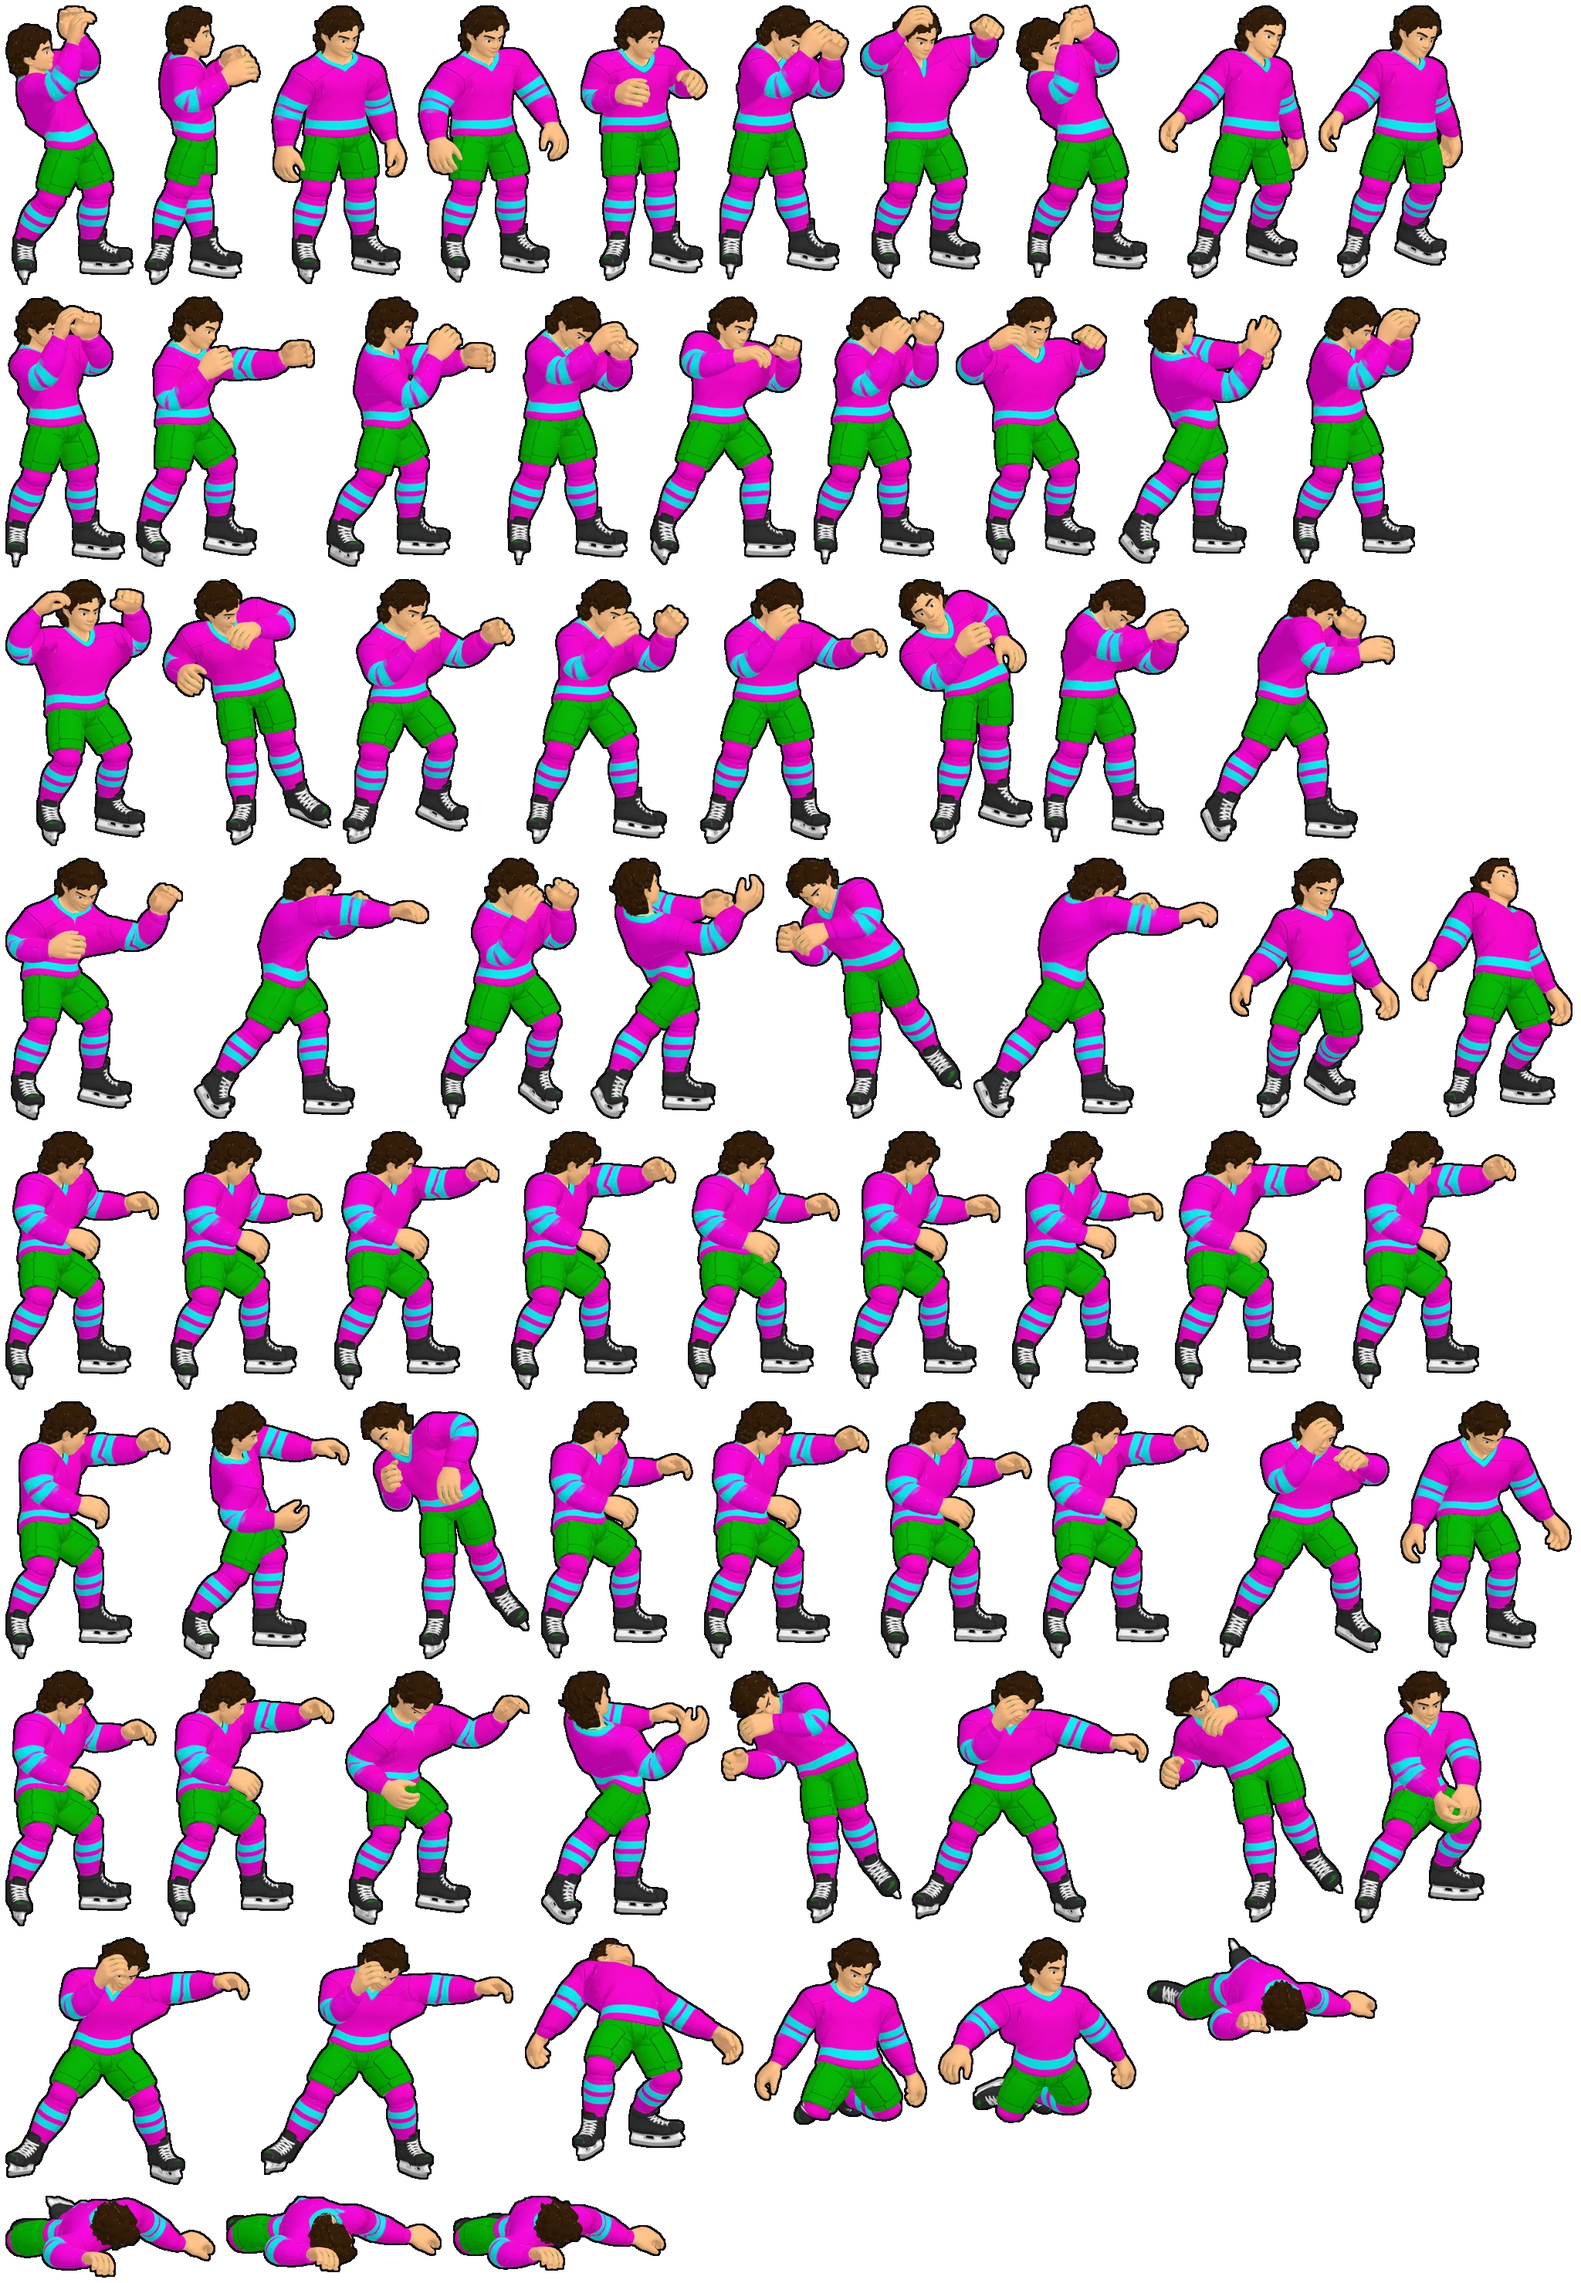
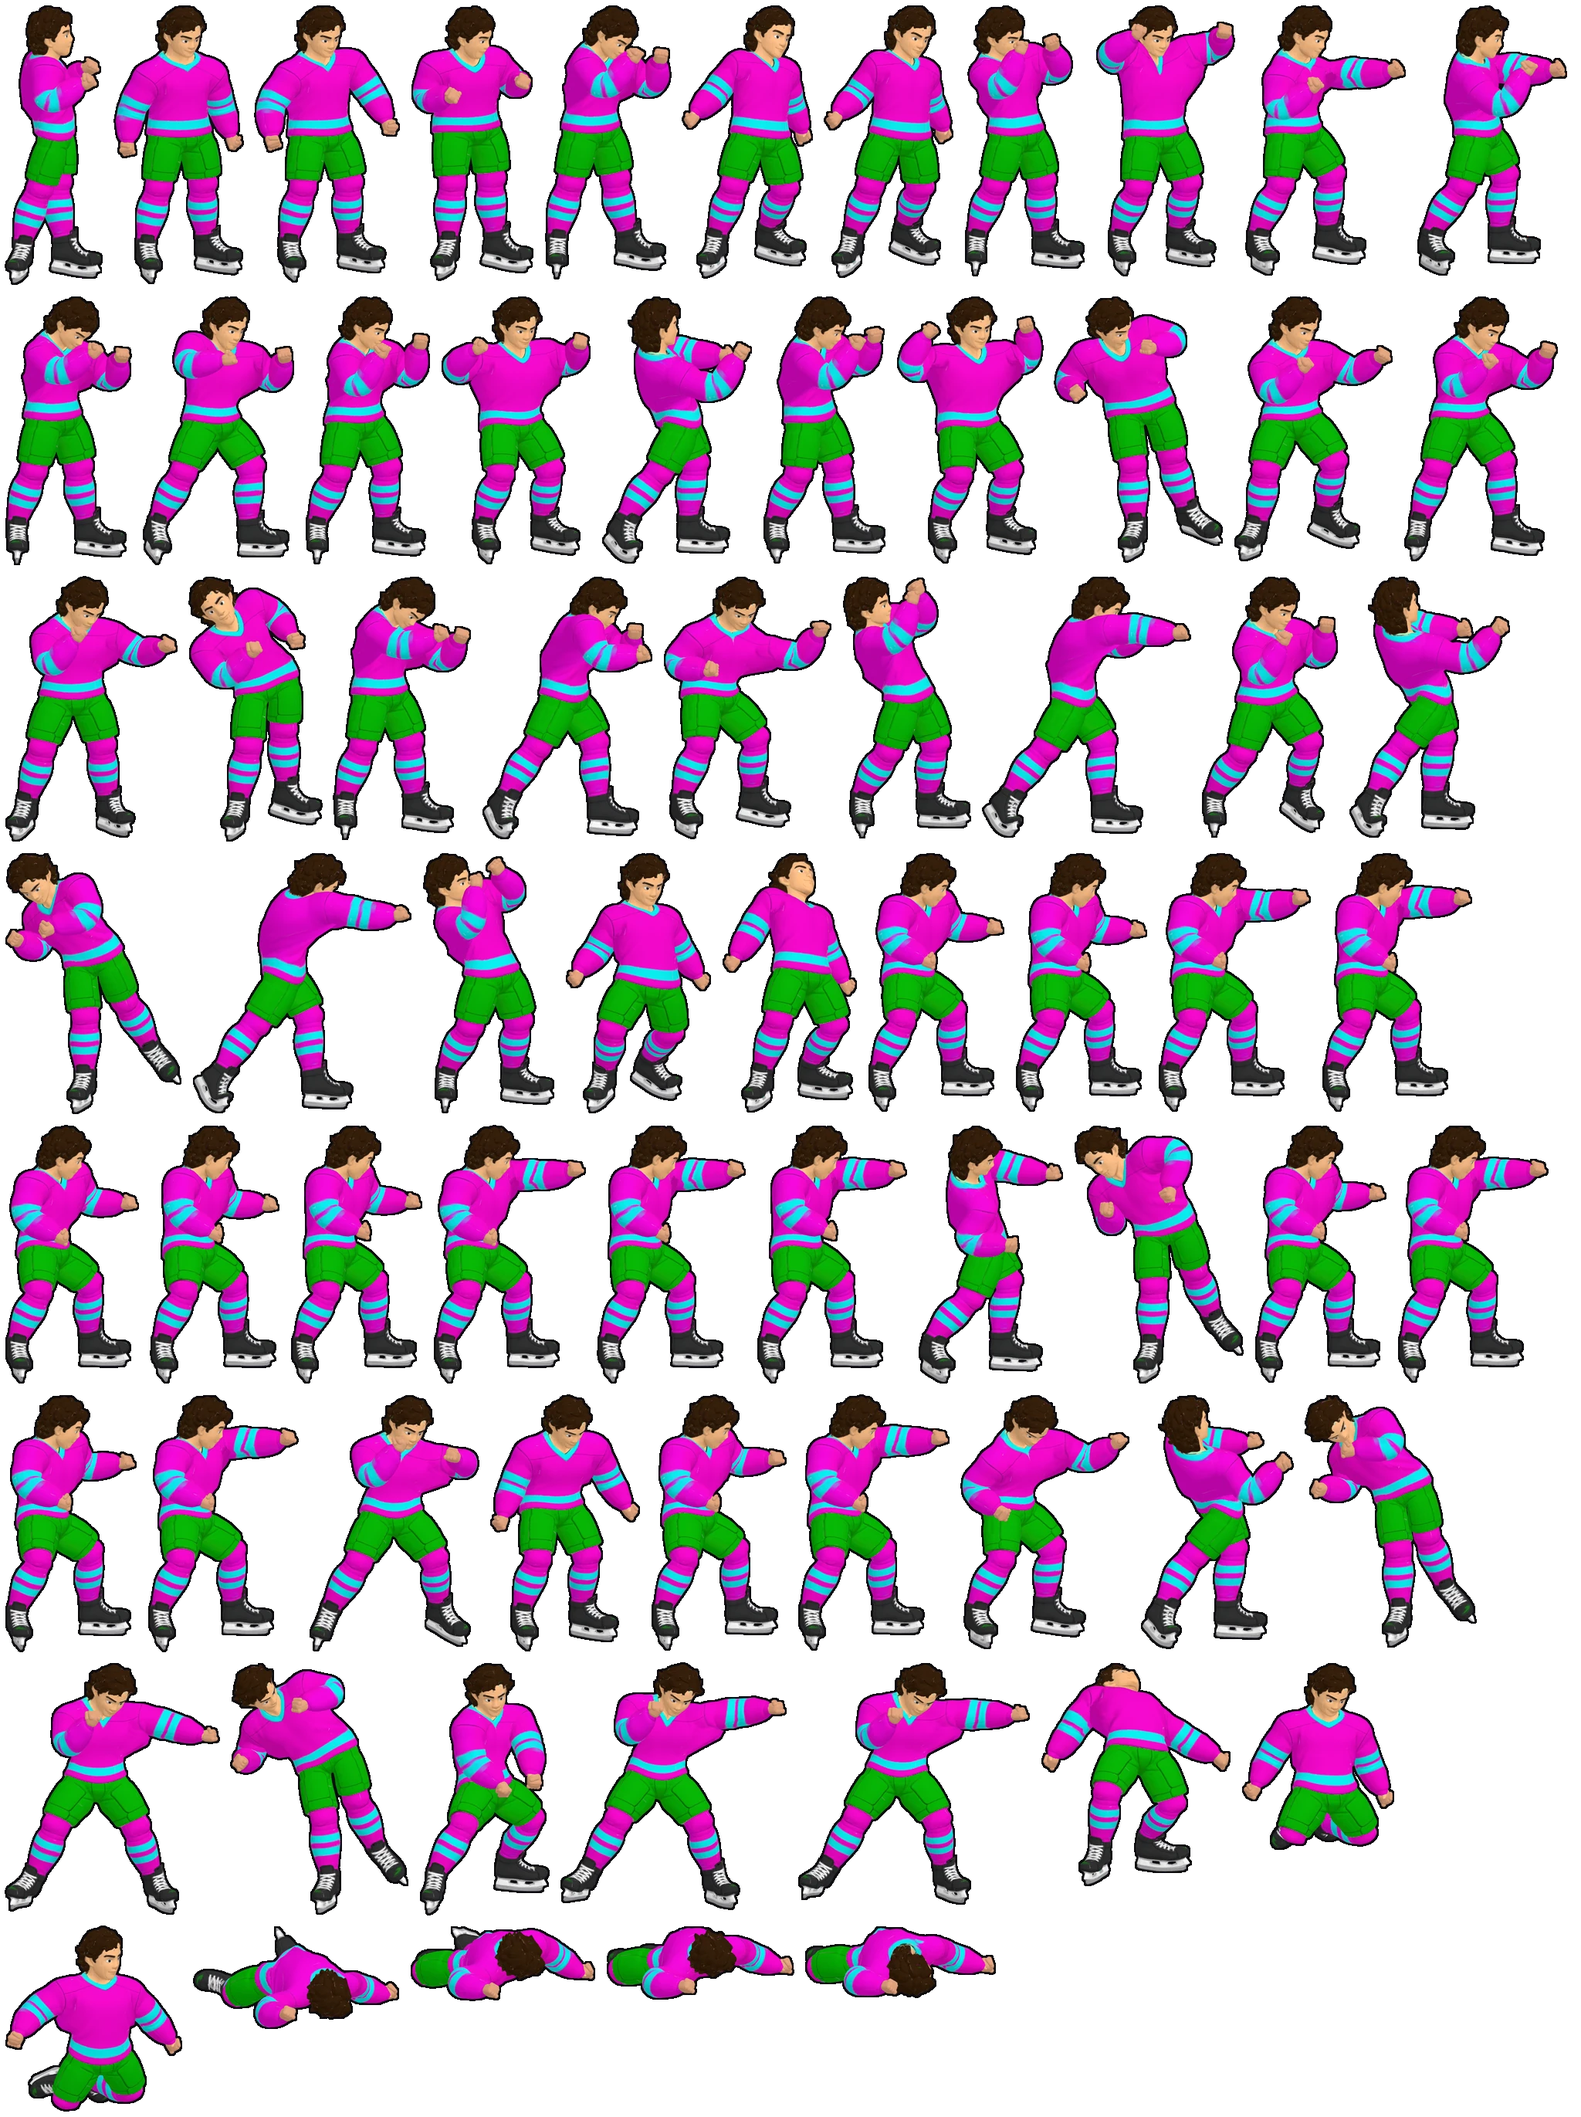
Fights: closed fists
The fight model has no finger bones, so each open hand is tucked into the cuff and a
modelled fist (knuckles, curled fingers, thumb) rides the wrist. Re-rendered the fight atlas.

Claude-Session: https://claude.ai/code/session_01C1NNpy9rFbatHA9zeLktuV

diff --git a/tools/fight/fight.html b/tools/fight/fight.html
@@ -4,6 +4,7 @@
 <script type="module">
 import * as THREE from 'three';
 import {GLTFLoader} from 'three/addons/loaders/GLTFLoader.js';
+import {RoundedBoxGeometry} from 'three/addons/geometries/RoundedBoxGeometry.js';
 const V=(x,y,z)=>new THREE.Vector3(x,y,z), Q=THREE.Quaternion, N=900;
 const cv=document.getElementById('c');
 const r=new THREE.WebGLRenderer({canvas:cv,antialias:true,alpha:true,preserveDrawingBuffer:true});
@@ -34,7 +35,7 @@ const pj=v=>{const p=v.clone().project(C); return [(p.x*.5+.5)*N,(1-(p.y*.5+.5))
 function pose(name,t,o={}){
   mx.stopAllAction(); const clip=g.animations.find(c=>c.name===name); const a=mx.clipAction(clip); a.reset().play(); mx.setTime(Math.min(t,clip.duration-1e-4)); root.rotation.y=({Idle_10:22,Dead:-66,Show_Both_Arm_Muscles:-50,Face_Punch_Reaction:-14}[name]||0)*Math.PI/180;
   root.updateMatrixWorld(true);
-  B.Head.scale.setScalar(1.12); B.LeftHand.scale.setScalar(1.25); B.RightHand.scale.setScalar(1.25); root.updateMatrixWorld(true);
+  B.Head.scale.setScalar(1.12); B.LeftHand.scale.setScalar(0.35); B.RightHand.scale.setScalar(0.35); root.updateMatrixWorld(true);
   if(o.grab){ // fake the jersey grab: lead (left) hand pinned on the other guy's shoulder/collar
     const D=window.DIST||1.0; const k=o.grab;
     const cur=wp(B.LeftHand), T=V(0.12,1.36,D-0.24);
@@ -43,8 +44,25 @@ function pose(name,t,o={}){
   }
 }
 window.yaws=(t0)=>g.animations.map(c=>{ pose(c.name,t0||0); const f=(a,b)=>{const L=wp(B[a]).sub(wp(B[b])); const F=L.clone().cross(V(0,1,0)); return +(Math.atan2(F.x,F.z)*57.3).toFixed(1);}; return [c.name,f('LeftUpLeg','RightUpLeg'),f('LeftArm','RightArm')]; });
+const SKIN=new THREE.MeshStandardMaterial({color:window.SKINC||0xe0a27c,roughness:.75});
+function mkFist(side){ const g=new THREE.Group();
+  const P=window.FP||{w:.095,t:.08,l:.10};
+  const body=new THREE.Mesh(new RoundedBoxGeometry(P.w,P.l,P.t,4,.032),SKIN); g.add(body);
+  // knuckle row along the far end
+  for(let i=0;i<4;i++){ const k=new THREE.Mesh(new THREE.SphereGeometry(.0175,12,10),SKIN); k.position.set((i-1.5)*.022,P.l/2-.012,-P.t/2+.022); g.add(k); }
+  // curled fingers: a rounded bar across the palm side
+  const fg=new THREE.Mesh(new THREE.CapsuleGeometry(.02,P.w-.04,4,10),SKIN); fg.rotation.z=Math.PI/2; fg.position.set(0,P.l/2-.03,P.t/2-.012); g.add(fg);
+  // thumb wrapped across the front of the fingers
+  const th=new THREE.Mesh(new THREE.CapsuleGeometry(.014,.045,4,10),SKIN); th.rotation.z=Math.PI/2+side*.35; th.position.set(side*.012,P.l/2-.05,P.t/2+.006); g.add(th);
+  sc.add(g); return g; }
+const FISTS={L:mkFist(1),R:mkFist(-1)};
+function placeFists(){ root.updateMatrixWorld(true);
+  for(const [k,h,e] of [['L','LeftHand','LeftHandMiddle4'],['R','RightHand','RightHandMiddle4']]){
+    const w=wp(B[h]), q=new Q(); B[h].getWorldQuaternion(q); const g=FISTS[k];
+    const fwd=V(0,1,0).applyQuaternion(q).normalize();
+    g.quaternion.copy(q); g.position.copy(w).add(fwd.multiplyScalar(window.FOFF??.055)); } }
 window.info=()=>g.animations.map(c=>[c.name,c.duration]);
 window.measure=(name,n)=>{ const clip=g.animations.find(c=>c.name===name); const out=[]; for(let i=0;i<=n;i++){ const t=clip.duration*i/n; pose(name,t); out.push([+t.toFixed(2),...['RightHand','LeftHand','Hips','Head'].map(k=>{const p=wp(B[k]);return [+p.x.toFixed(2),+p.y.toFixed(2),+p.z.toFixed(2)];})]); } return out; };
-window.shot=(name,t,o)=>{ pose(name,t,o||{}); r.render(sc,C); return {img:cv.toDataURL('image/png'),anchor:pj(V(0,0,0)),hand:[pj(wp(B.RightHand)),pj(wp(B.LeftHand))],head:pj(wp(B.Head))}; };
+window.shot=(name,t,o)=>{ pose(name,t,o||{}); placeFists(); r.render(sc,C); return {img:cv.toDataURL('image/png'),anchor:pj(V(0,0,0)),hand:[pj(FISTS.R.position),pj(FISTS.L.position)],head:pj(wp(B.Head))}; };
 window.ready=true;
 </script>
